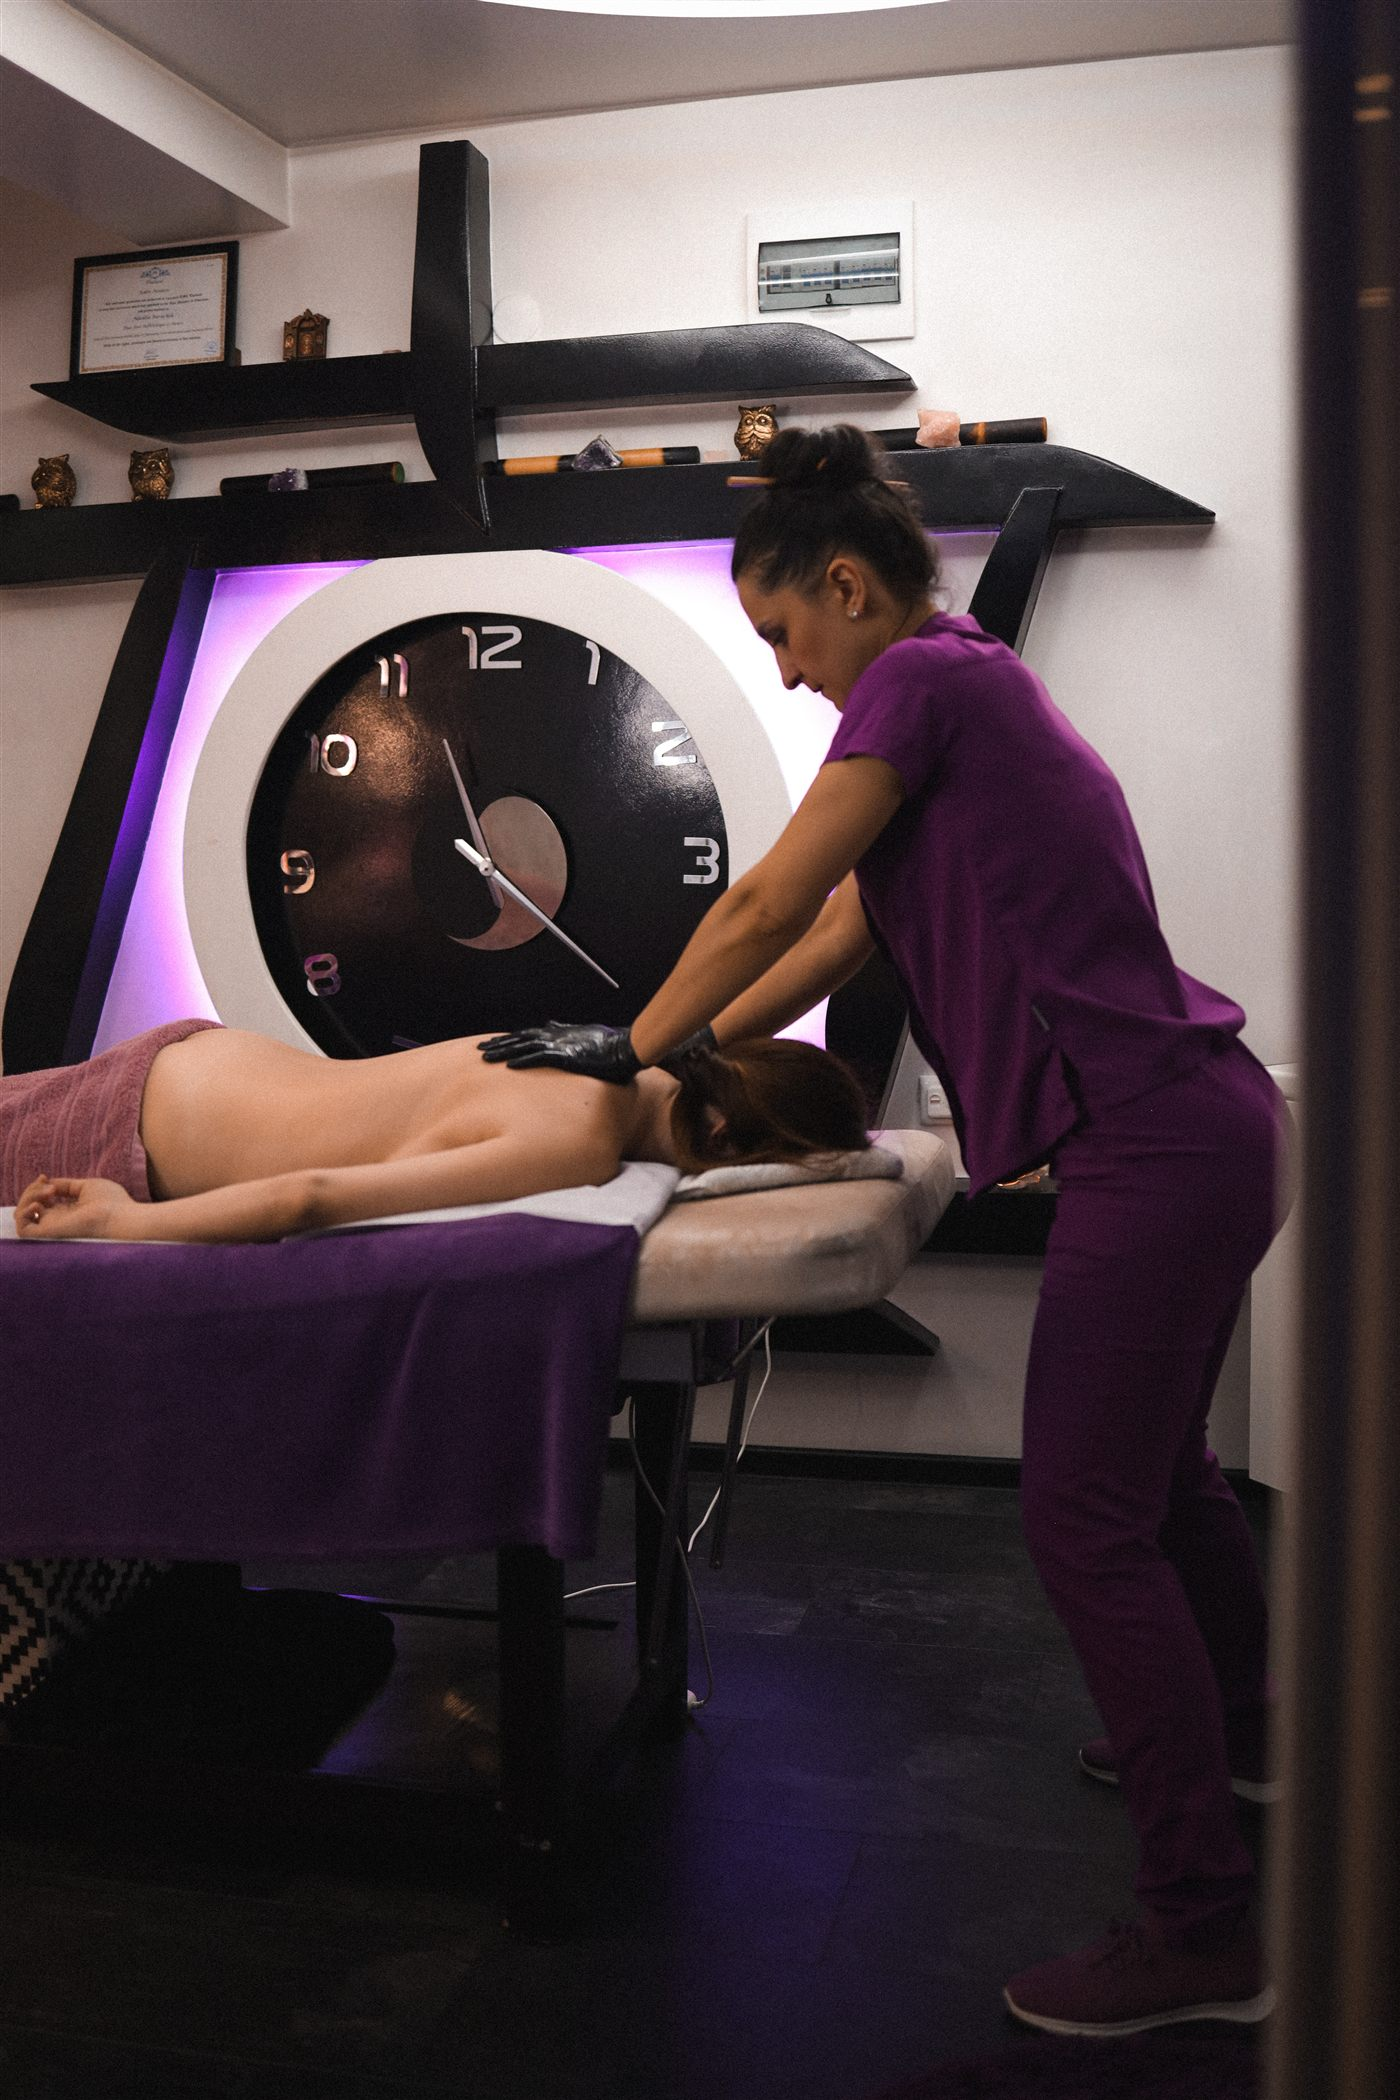
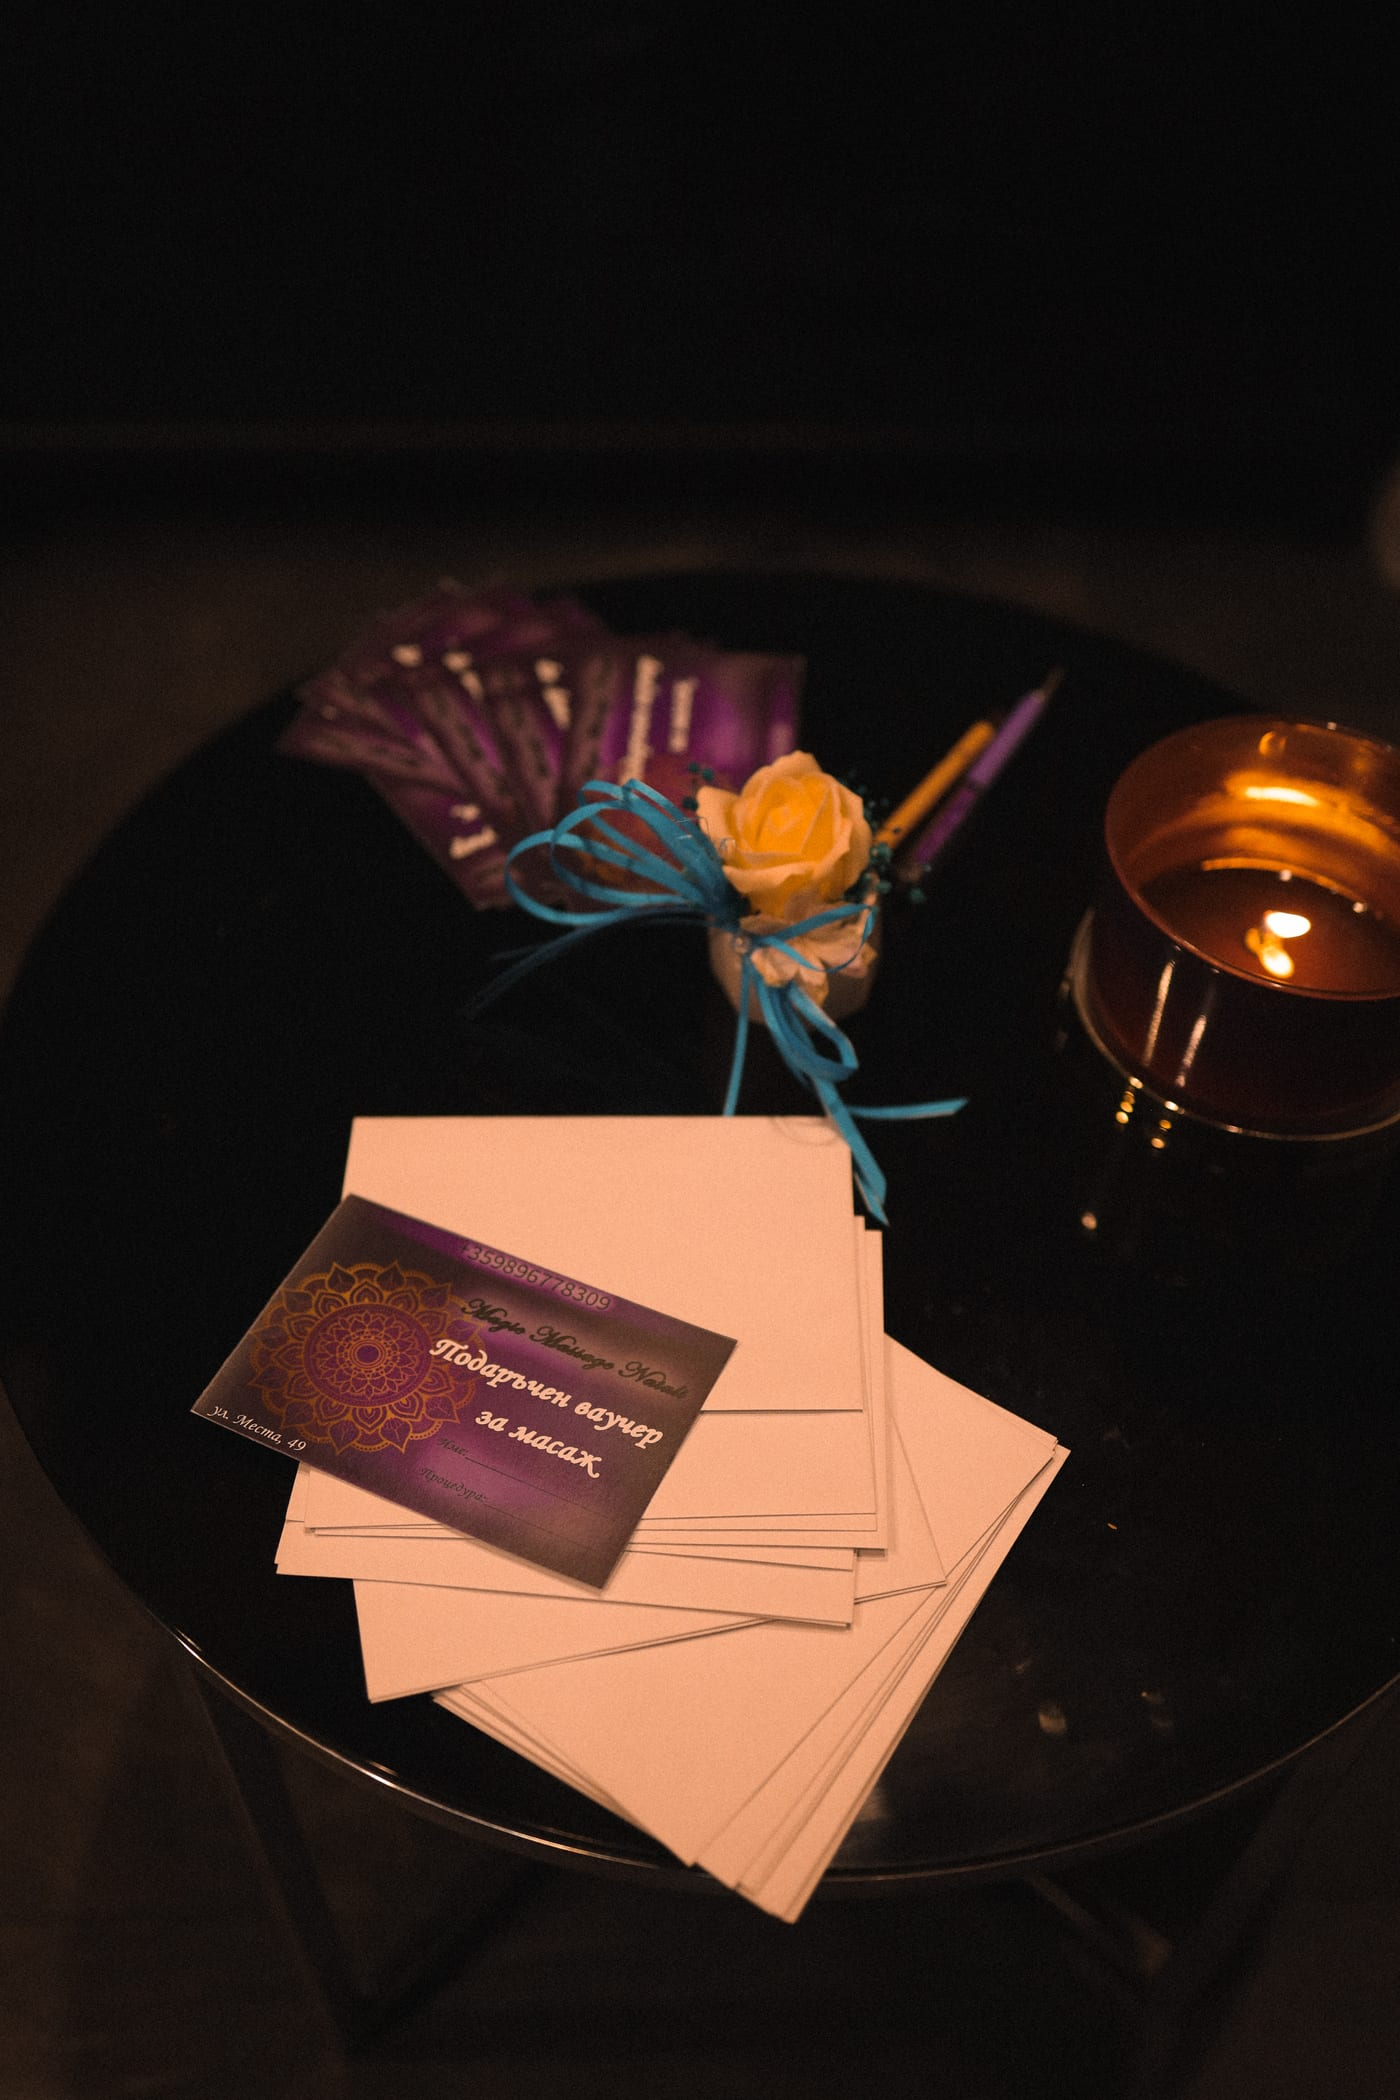
chore: replace repeated massage photos

diff --git a/src/content/public-pages.ts b/src/content/public-pages.ts
@@ -119,7 +119,7 @@ const content: Record<Locale, PublicPagesContent> = {
       ],
       values: ["Индивидуален подход", "Внимание към комфорта", "Спокойна атмосфера", "Лична комуникация"],
       imageAlt: "Натали по време на масажна процедура",
-      studioImageAlt: "Интериор на Magic Massage Natali в Бургас",
+      studioImageAlt: "Подаръчен ваучер за масаж в Magic Massage Natali",
     },
     contacts: {
       eyebrow: "Посетете студиото",
@@ -171,7 +171,7 @@ const content: Record<Locale, PublicPagesContent> = {
       ],
       values: ["Индивидуальный подход", "Внимание к комфорту", "Спокойная атмосфера", "Личное общение"],
       imageAlt: "Натали во время массажной процедуры",
-      studioImageAlt: "Интерьер Magic Massage Natali в Бургасе",
+      studioImageAlt: "Подарочный ваучер на массаж в Magic Massage Natali",
     },
     contacts: {
       eyebrow: "Посетите салон",
@@ -223,7 +223,7 @@ const content: Record<Locale, PublicPagesContent> = {
       ],
       values: ["Індивідуальний підхід", "Увага до комфорту", "Спокійна атмосфера", "Особисте спілкування"],
       imageAlt: "Наталі під час масажної процедури",
-      studioImageAlt: "Інтер'єр Magic Massage Natali у Бургасі",
+      studioImageAlt: "Подарунковий ваучер на масаж у Magic Massage Natali",
     },
     contacts: {
       eyebrow: "Відвідайте салон",
@@ -275,7 +275,7 @@ const content: Record<Locale, PublicPagesContent> = {
       ],
       values: ["Individual approach", "Attention to comfort", "Calm atmosphere", "Personal communication"],
       imageAlt: "Natali during a massage treatment",
-      studioImageAlt: "Interior of Magic Massage Natali in Burgas",
+      studioImageAlt: "Massage gift voucher at Magic Massage Natali",
     },
     contacts: {
       eyebrow: "Visit the studio",